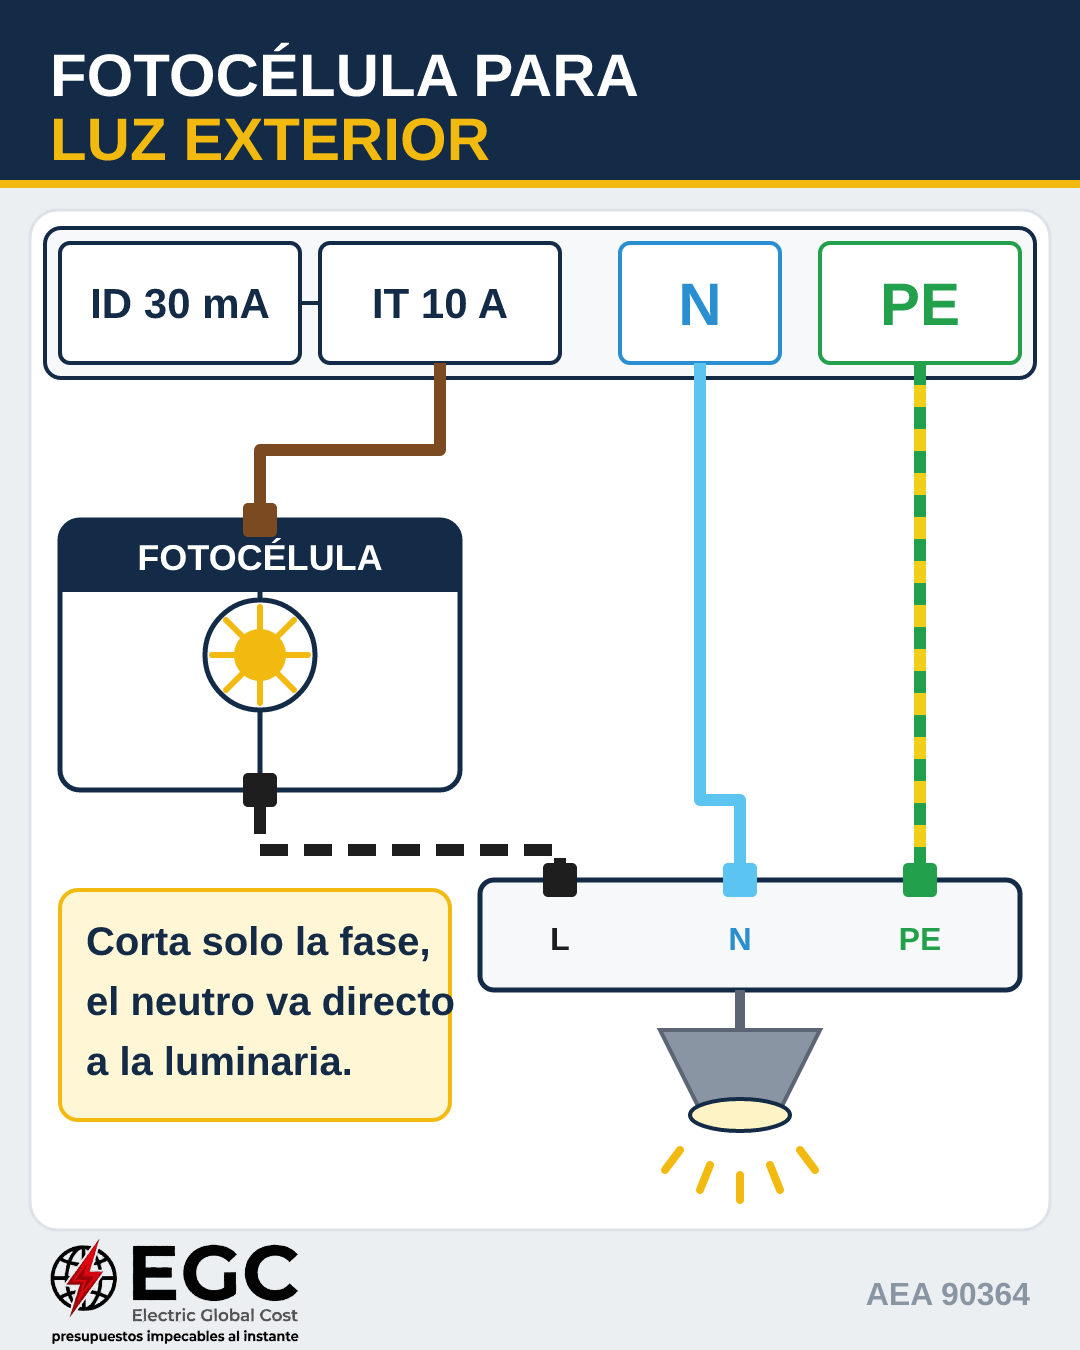
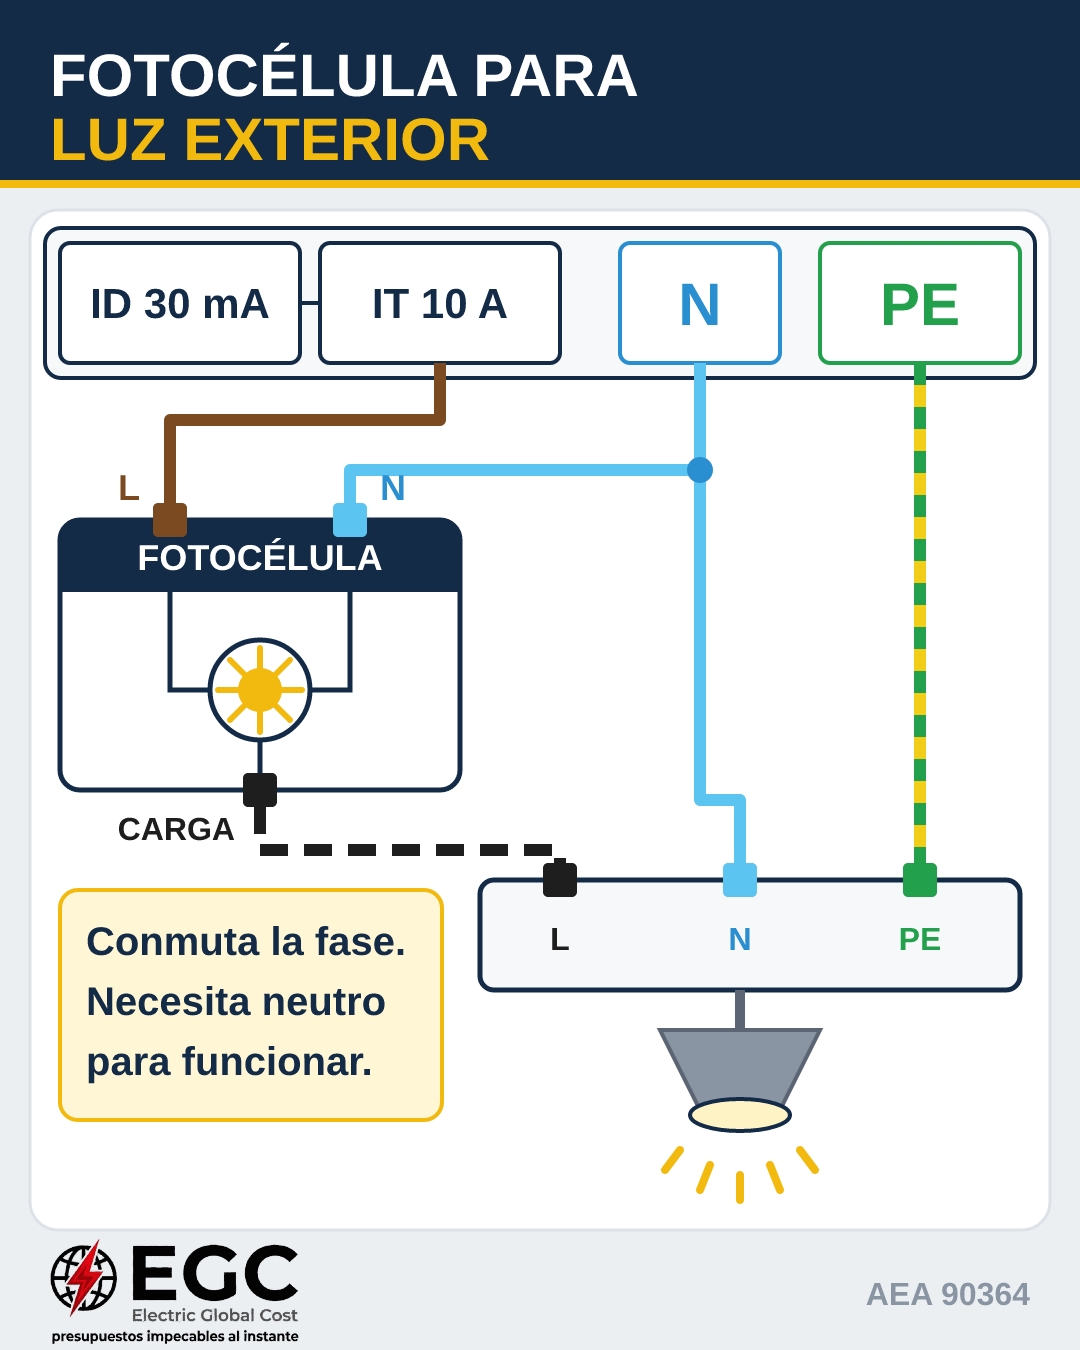
Corregir posteo 2026-09-25: fotocélula con borne N y recuadro dentro del borde
La fotocélula electrónica necesita neutro para alimentar el sensor: se agrega el borne N
y se rotulan L, N y CARGA. mensaje() ajusta el ancho a la línea más larga. CLAUDE.md:
paso 0 de integración de ramas, merge a main al cierre, verificación de bornes del aparato
y del recuadro amarillo.

Claude-Session: https://claude.ai/code/session_01GviwBv2mVnmNwyUqfM85rt

diff --git a/generador/2026-09-25-fotocelula-exterior.py b/generador/2026-09-25-fotocelula-exterior.py
@@ -6,25 +6,30 @@ from placa import *
 s = encabezado('FOTOCÉLULA PARA', 'LUZ EXTERIOR')
 s += tablero()
 
-# Fase del IT a la entrada (L) de la fotocélula. Neutro y PE van directo a la bornera de la luminaria.
-s += cable([(440, 363), (440, 450), (260, 450), (260, 503)], CAST)
+# Fase del IT al borne L de la fotocélula.
+s += cable([(440, 363), (440, 420), (170, 420), (170, 503)], CAST)
+# Neutro: directo a la luminaria y derivación al borne N de la fotocélula (alimenta el sensor).
 s += cable([(700, 363), (700, 800), (740, 800), (740, 863)], CEL)
+s += cable([(700, 470), (350, 470), (350, 503)], CEL)
+s += f'<circle cx="700" cy="470" r="13" fill="{CEL_TXT}"/>'
+# PE directo a la masa de la luminaria.
 s += cable_pe([(920, 363), (920, 863)])
-# Salida conmutada (C) de la fotocélula hacia la luminaria: solo corta la fase.
+# Salida CARGA de la fotocélula a la luminaria: fase conmutada.
 s += cable([(260, 806), (260, 850), (560, 850), (560, 863)], NEG, punteado=True)
 
 # Caja de la fotocélula con sensor de luz
 s += caja(60, 520, 400, 270, 'FOTOCÉLULA')
-s += f'<line x1="260" y1="592" x2="260" y2="600" stroke="{NAVY}" stroke-width="5"/>'
-s += f'<circle cx="260" cy="655" r="55" fill="#FFF" stroke="{NAVY}" stroke-width="5"/>'
-s += f'<circle cx="260" cy="655" r="26" fill="{AMARILLO}"/>'
-for dx, dy, ex, ey in (
-    (286, 655, 308, 655), (278, 674, 294, 690), (260, 681, 260, 703), (242, 674, 226, 690),
-    (234, 655, 212, 655), (242, 636, 226, 620), (260, 629, 260, 607), (278, 636, 294, 620),
-):
-    s += f'<line x1="{dx}" y1="{dy}" x2="{ex}" y2="{ey}" stroke="{AMARILLO}" stroke-width="6" stroke-linecap="round"/>'
-s += f'<line x1="260" y1="710" x2="260" y2="790" stroke="{NAVY}" stroke-width="5"/>'
-s += borne(260, 520, CAST) + borne(260, 790, NEG)
+s += (f'<polyline points="170,592 170,690 210,690" fill="none" stroke="{NAVY}" stroke-width="5"/>'
+      f'<polyline points="350,592 350,690 310,690" fill="none" stroke="{NAVY}" stroke-width="5"/>'
+      f'<line x1="260" y1="740" x2="260" y2="790" stroke="{NAVY}" stroke-width="5"/>'
+      f'<circle cx="260" cy="690" r="50" fill="#FFF" stroke="{NAVY}" stroke-width="5"/>'
+      f'<circle cx="260" cy="690" r="22" fill="{AMARILLO}"/>')
+for a, b, c, d in ((282, 690, 302, 690), (276, 706, 290, 720), (260, 712, 260, 732), (244, 706, 230, 720),
+                   (238, 690, 218, 690), (244, 674, 230, 660), (260, 668, 260, 648), (276, 674, 290, 660)):
+    s += f'<line x1="{a}" y1="{b}" x2="{c}" y2="{d}" stroke="{AMARILLO}" stroke-width="6" stroke-linecap="round"/>'
+s += borne(170, 520, CAST) + borne(350, 520, CEL) + borne(260, 790, NEG)
+s += (texto(140, 500, 'L', 36, CAST, 'end') + texto(380, 500, 'N', 36, CEL_TXT)
+      + texto(235, 840, 'CARGA', 32, NEG, 'end'))
 
 # Bornera de la luminaria exterior
 s += f'<rect x="480" y="880" width="540" height="110" rx="14" fill="#F6F8FA" stroke="{NAVY}" stroke-width="5"/>'
@@ -32,7 +37,7 @@ s += borne(560, 880, NEG) + borne(740, 880, CEL) + borne(920, 880, VERDE)
 s += (texto(560, 950, 'L', 32, NEG, 'middle') + texto(740, 950, 'N', 32, CEL_TXT, 'middle')
       + texto(920, 950, 'PE', 32, VERDE, 'middle'))
 
-# Dibujo del farol exterior encendido
+# Farol exterior encendido
 s += (f'<line x1="740" y1="990" x2="740" y2="1030" stroke="#5B6573" stroke-width="10"/>'
       f'<path d="M660,1030 L820,1030 L780,1110 L700,1110 Z" fill="{GRIS}" stroke="#5B6573" stroke-width="4"/>'
       f'<ellipse cx="740" cy="1115" rx="50" ry="16" fill="#FDF3C4" stroke="{NAVY}" stroke-width="4"/>'
@@ -41,7 +46,7 @@ s += (f'<line x1="740" y1="990" x2="740" y2="1030" stroke="#5B6573" stroke-width
       f'<line x1="710" y1="1165" x2="700" y2="1190"/><line x1="770" y1="1165" x2="780" y2="1190"/>'
       f'<line x1="740" y1="1175" x2="740" y2="1200"/></g>')
 
-s += mensaje(['Corta solo la fase,', 'el neutro va directo', 'a la luminaria.'])
+s += mensaje(['Conmuta la fase.', 'Necesita neutro', 'para funcionar.'])
 s += firma()
 
 salida = sys.argv[1] if len(sys.argv) > 1 else '2026-09-25-fotocelula-exterior.png'

diff --git a/generador/placa.py b/generador/placa.py
@@ -105,8 +105,20 @@ def texto(x, y, t, tam=40, color=NAVY, ancla='start', negrita=True):
     return f'<text x="{x}" y="{y}" font-size="{tam}"{peso} fill="{color}" text-anchor="{ancla}">{t}</text>'
 
 
-def mensaje(lineas, x=60, y=890, ancho=390, tam=40):
-    """Recuadro amarillo con la idea clave (máx. 3 líneas cortas)."""
+def ancho_texto(t, tam, negrita=True):
+    """Ancho en px de un texto con Liberation Sans (Pillow si está; si no, estimación conservadora)."""
+    try:
+        from PIL import ImageFont
+        archivo = 'LiberationSans-Bold.ttf' if negrita else 'LiberationSans-Regular.ttf'
+        return ImageFont.truetype(os.path.join(AQUI, 'fuentes', archivo), tam).getlength(t)
+    except Exception:
+        return len(t) * tam * 0.62
+
+
+def mensaje(lineas, x=60, y=890, ancho=None, tam=40):
+    """Recuadro amarillo con la idea clave (máx. 3 líneas cortas). El ancho se ajusta a la línea más larga."""
+    if ancho is None:
+        ancho = int(max(ancho_texto(l, tam) for l in lineas) + 2 * 26 + 10)
     alto = 50 + 60 * len(lineas)
     s = f'<rect x="{x}" y="{y}" width="{ancho}" height="{alto}" rx="18" fill="#FFF6D6" stroke="{AMARILLO}" stroke-width="4"/>'
     for i, l in enumerate(lineas):

diff --git a/CLAUDE.md b/CLAUDE.md
@@ -24,6 +24,20 @@ La prioridad absoluta es la **exactitud técnica**. Es mejor saltear un día que
 
 ## Paso a paso (seguilo en orden)
 
+`main` es la fuente de verdad de `temas.md` y `publicados.md`. Todo termina integrado en `main`.
+
+### 0. Integrar ramas pendientes en main
+Antes de todo, integrá en `main` cualquier rama `claude/*` que tenga commits que no estén en `main`:
+```bash
+git fetch origin
+git checkout main && git pull origin main
+for r in $(git branch -r --list 'origin/claude/*'); do
+  if [ -n "$(git log --oneline main..$r)" ]; then git merge --no-edit "$r"; fi
+done
+git push origin main
+```
+Si hay conflictos en `temas.md` o `publicados.md`, conservá las líneas de ambos lados. Trabajá el resto de la corrida a partir de este `main` actualizado.
+
 ### 1. Calcular la fecha
 ```bash
 MANANA=$(TZ=America/Argentina/Buenos_Aires date -d tomorrow +%F)
@@ -39,6 +53,7 @@ Alterná formatos: no uses dos placas "MAL / BIEN" seguidas.
 
 ### 4. Verificar la parte técnica
 - Buscá en la web y confirmá cada dato que vayas a afirmar. Fuentes preferidas: AEA, IRAM, IEC, ENRE, entes reguladores provinciales, universidades, colegios de ingenieros, fabricantes reconocidos.
+- **Verificá el aparato real:** cuántos bornes tiene y qué necesita para funcionar, y dibujalos todos. Fotocélulas, sensores de movimiento, temporizadores y relojes electrónicos **necesitan neutro para alimentar su electrónica**: el neutro va a su borne N y también directo a la carga. Si los cables propios del equipo tienen colores de fábrica, aclarar que se confirman en el manual del modelo.
 - **No inventes números de artículo.** Si no verificaste el número exacto, escribí solo "reglamentación AEA 90364".
 - Si un dato no se puede verificar, no se afirma.
 - Si el tema completo no se puede verificar con seguridad, marcalo `[?]` en `temas.md` con el motivo y pasá al siguiente.
@@ -59,6 +74,7 @@ Alterná formatos: no uses dos placas "MAL / BIEN" seguidas.
 Abrí el PNG y revisá, uno por uno:
 - [ ] Ningún texto se superpone ni queda cortado.
 - [ ] Todo el texto mide 32 px o más (se tiene que leer en un celular).
+- [ ] El texto del recuadro amarillo queda completo dentro del borde (`mensaje()` ajusta el ancho a la línea más larga; si el recuadro invade otro elemento, acortá las líneas).
 - [ ] El logo de EGC está abajo a la izquierda.
 - [ ] Colores AEA correctos (ver reglas).
 - [ ] El esquema es **eléctricamente correcto**: la llave corta la fase; el neutro nunca pasa por una llave unipolar; el PE va directo a las masas; ningún cable une dos fases o fase con neutro; ningún cable cruza a otro de forma ambigua.
@@ -83,9 +99,13 @@ Guardalo en `posts/AAAA-MM-DD-slug.txt`. Reglas:
 ```bash
 git add posts/ generador/ temas.md publicados.md
 git commit -m "Posteo ${MANANA}: <tema>"
-git push origin HEAD:main
+git push origin HEAD            # tu rama de trabajo
+git fetch origin && git checkout main && git pull origin main
+git merge --no-edit <tu-rama>
+git push origin main
+git ls-remote origin main       # tiene que mostrar el hash de tu último commit (git rev-parse HEAD)
 ```
-Si el push a `main` es rechazado, hacé push a `claude/posts` y usá esa rama en la URL.
+La URL de la imagen se arma siempre con `main`. Si el push a `main` es rechazado, anotá el error exacto en el resumen, usá tu rama en la URL y avisalo.
 
 ### 9. Verificar la URL pública
 ```bash
@@ -122,7 +142,7 @@ Armá el JSON con Python (`json.dumps`) para que los saltos de línea y acentos 
 - Confirmá con `getScheduledPosts` que el posteo aparece para mañana a las 10:00.
 - En `publicados.md` agregá una línea: `- AAAA-MM-DD · <tema> · <formato> · posts/<archivo>.png · <plannerUrl>`
 - En `temas.md` marcá el tema como `[x]`.
-- Commit y push de esos cambios.
+- Commit, merge en `main` y push de esos cambios (igual que en el paso 8). Verificá con `git ls-remote origin main` que `main` tiene tu último commit. **Ninguna corrida termina sin esto.**
 
 ### 12. Resumen final
 Terminá con un resumen corto: tema, fuentes consultadas, archivo, URL, fecha y hora programada, y el `plannerUrl`.
